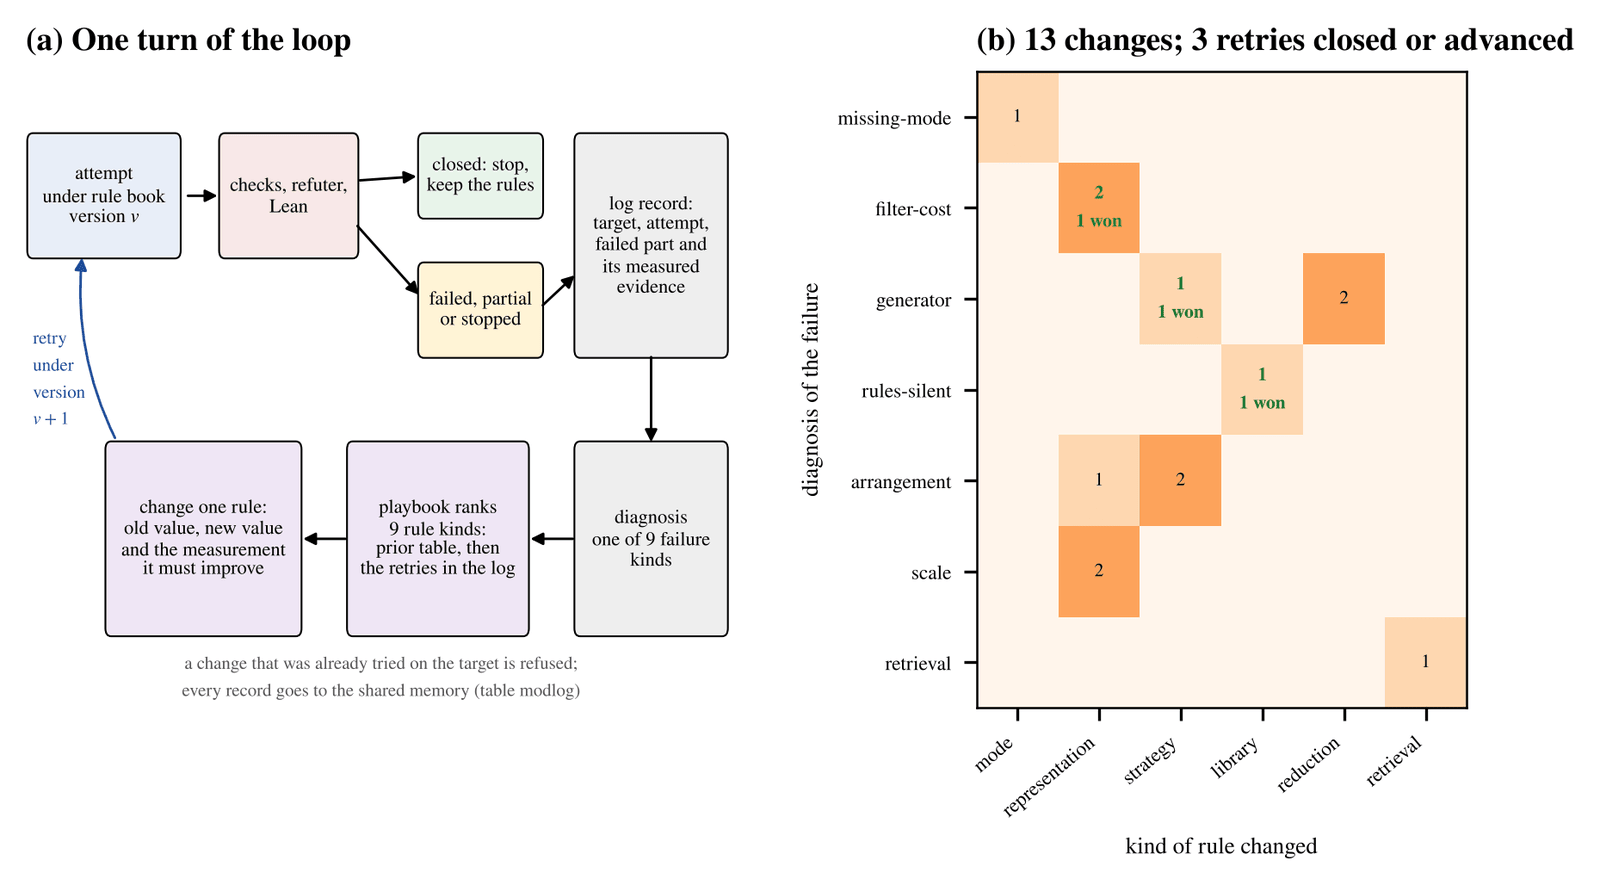
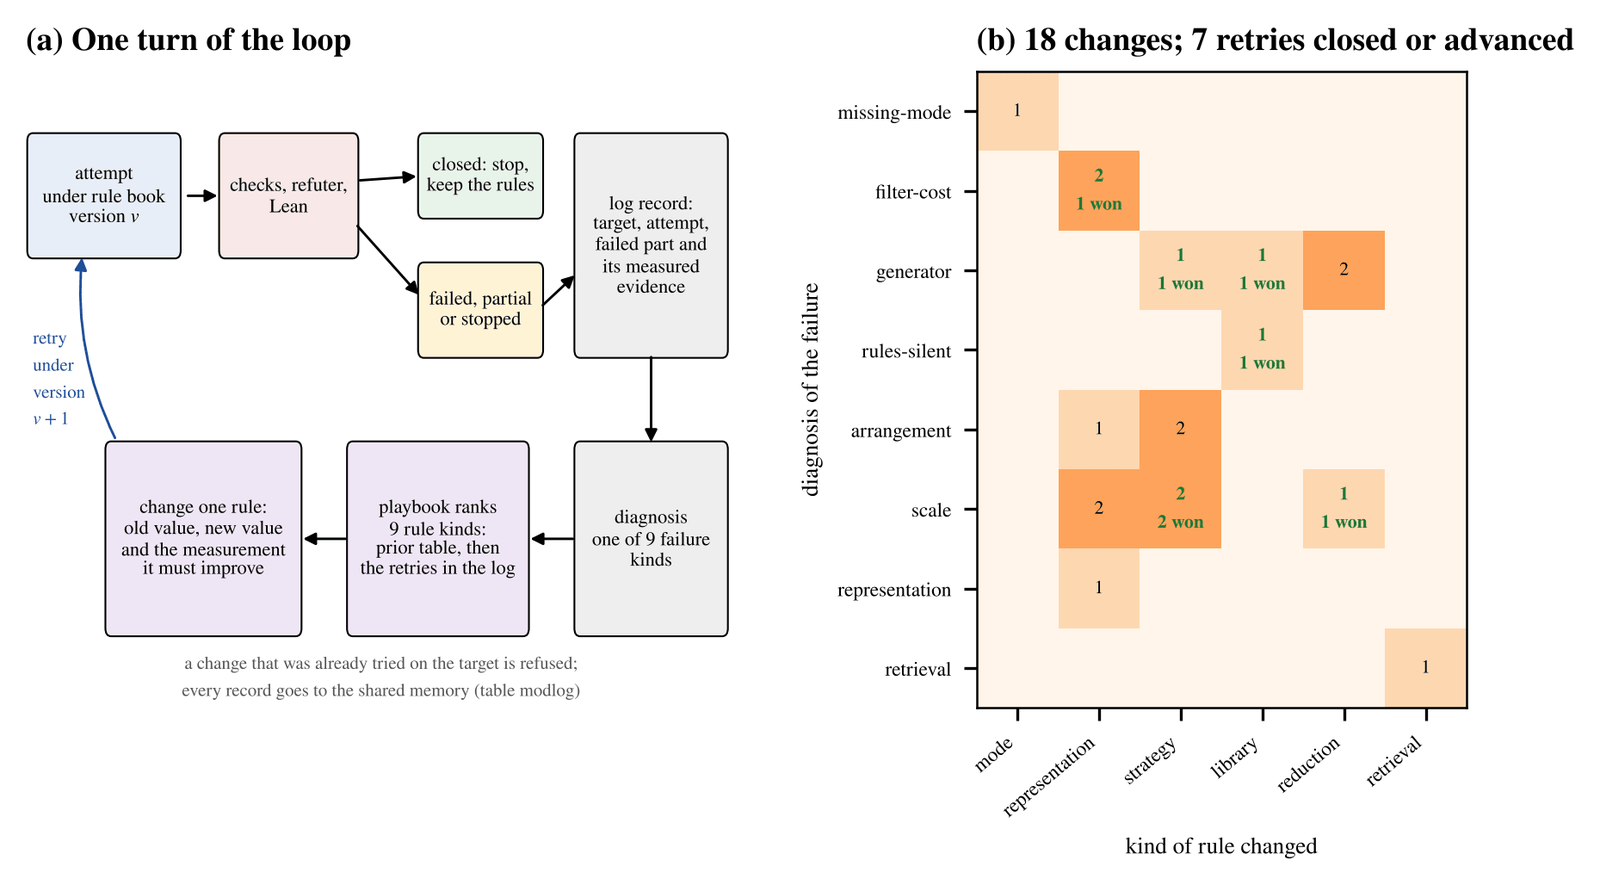
Paper: how the engine reached the seed bound, read from the log; retries counted as closed or advanced; seed figure placed in its section

diff --git a/paper/bllm/paper/sections/sec10i_seed.tex b/paper/bllm/paper/sections/sec10i_seed.tex
@@ -8,6 +8,14 @@ A lattice polytope $P\subset\mathbb{R}^{d}$ is \emph{reflexive} if the origin is
 
 A reflexive polytope $Q\subsetneq P$ is a \emph{cover} of $P$ when no reflexive polytope lies strictly between them, and a \emph{reflexive descent} of $P$ is a chain $P=P_{0}\supsetneq P_{1}\supsetneq\cdots\supsetneq P_{k}$ in which each $P_{i+1}$ is a cover of $P_{i}$ and $P_{k}$ has no cover; $k$ is its number of steps. A reflexive polytope with no cover is \emph{r-minimal}, and every r-minimal polytope contains a minimal polytope in the sense of Kreuzer and Skarke, a \emph{seed} of their list \cite{KS00,BhaSeed}. The \emph{transition depth} $\delta(P)$ is the fewest steps of a reflexive descent of $P$. Every $P$ has a reflexive descent, because a polytope that is not r-minimal has a cover and every step loses a lattice point (Lemma~\ref{lem:seedstep} below). The seed conjecture, in the form stated and proved in \cite{BhaSeed}, asserts that $\delta(P)$ is bounded independently of $P$ in dimension four; the least such bound is the sharp constant $D_{4}=\max_{P}\delta(P)$.\footnote{The conjecture was first stated for chains of subpolytopes whose intermediate hulls are reflexive. The form above, in which no reflexive polytope may be skipped, is the strictest such chain. Deleting a vertex of $P$ and taking the hull of its other lattice points does not suffice from dimension three on: the reflexive $3$-polytope with $15$ lattice points and vertices $(1,0,0)$, $(0,1,0)$, $(-1,-1,0)$, $(0,0,1)$, $(-3,2,-2)$, $(-2,3,-2)$, $(-4,4,-3)$ has no reflexive vertex deletion, yet it has three covers, with $12$, $13$ and $13$ lattice points, and a reflexive descent of five steps \cite{BhaSeed}; construction mode reproduces all three numbers.}
 
+\begin{figure*}[t]
+\centering
+\includegraphics[width=\textwidth,height=0.78\textheight,keepaspectratio]{figures/fig_seed}
+\Description{Left: the sixteen reflexive polygons in rows by number of lattice points, from ten at the top to four at the bottom, with arrows for every cover; the shortest descent from the ten-point triangle is red and the three r-minimal polygons are green. Upper right: the pairs of point counts of the reflexive four-polytopes and their dual, with the longest chain in red. Lower right: the point counts of the largest four-polytope and its dual along a descent of 38 steps, with a shorter descent of 36 steps marked in red.}
+\caption{Descents to seeds. (a) The $16$ reflexive polygons, by number of lattice points, with an arrow for every cover; the three r-minimal polygons are green, the shortest descent from the $10$-point triangle is red, and the grey number is the transition depth. (b) The pairs $(\ell(P),\ell(P^{*}))$ over the $\seedCount$ reflexive $4$-polytopes and a longest chain in the order of Theorem~\ref{thm:seedbound}, of $\seedBound$ steps. (c) The lattice points of $P_{i}$ and of $P_{i}^{*}$ along the listed descent of $\Delta_{680}$; from step $27$ a shortest descent (red) ends at an r-minimal polytope with $11$ points after nine steps.}
+\label{fig:seed}
+\end{figure*}
+
 \begin{lemma}\label{lem:seedstep}
 If $Q\subsetneq P$ are reflexive, then $\ell(Q)<\ell(P)$ and $\ell(Q^{*})>\ell(P^{*})$.
 \end{lemma}
@@ -40,14 +48,11 @@ A lattice polygon with exactly one interior lattice point is reflexive \cite{PRV
 
 In dimension three the largest transition depth over all $\seedCountThree$ reflexive polytopes is $\seedThree$ \cite{BhaSeed}. So the conjecture holds in dimension four with a uniform bound, the sharp constant is $\seedTwo$ in dimension two and $\seedThree$ in dimension three, and in dimension four it lies between $\seedLow$ and $\seedBound$.
 
-\begin{figure*}[t]
-\centering
-\includegraphics[width=\textwidth,height=0.78\textheight,keepaspectratio]{figures/fig_seed}
-\Description{Left: the sixteen reflexive polygons in rows by number of lattice points, from ten at the top to four at the bottom, with arrows for every cover; the shortest descent from the ten-point triangle is red and the three r-minimal polygons are green. Upper right: the pairs of point counts of the reflexive four-polytopes and their dual, with the longest chain in red. Lower right: the point counts of the largest four-polytope and its dual along a descent of 38 steps, with a shorter descent of 36 steps marked in red.}
-\caption{Descents to seeds. (a) The $16$ reflexive polygons, by number of lattice points, with an arrow for every cover; the three r-minimal polygons are green, the shortest descent from the $10$-point triangle is red, and the grey number is the transition depth. (b) The pairs $(\ell(P),\ell(P^{*}))$ over the $\seedCount$ reflexive $4$-polytopes and a longest chain in the order of Theorem~\ref{thm:seedbound}, of $\seedBound$ steps. (c) The lattice points of $P_{i}$ and of $P_{i}^{*}$ along the listed descent of $\Delta_{680}$; from step $27$ a shortest descent (red) ends at an r-minimal polytope with $11$ points after nine steps.}
-\label{fig:seed}
-\end{figure*}
-
 \subsection{How the engine got there}\label{ssec:seedrun}
 
-%RUN
+The run is the second in the log of the loop (Section~\ref{sec:selfmod}): \modSeedAttempts{} attempts on three targets and \modSeedChanges{} changes of rule, all listed in Table~\ref{tab:modlog} and drawn in Fig.~\ref{fig:modladder}. Its first two failures were failures of the step itself. The engine started from the step that works in the plane, deleting a vertex and keeping the hull of the other lattice points, and tested it on $400$ reflexive $3$-polytopes: seven of them have no reflexive vertex deletion, and $237$ have a cover that is not a vertex deletion. The diagnosis was the representation, and the step became a cover, found by cutting $P$ with a half-space $\{x:\langle x,q\rangle\ge-1\}$ at a lattice point $q$ of the dual. Cuts at dual points of gauge two still gave the wrong set of covers for $73$ of the $400$ polytopes, so the generator of cuts was widened to every dual point allowed by the bound of Balletti, Kasprzyk and Nill on the dual volume \cite{BKN22} and by the facet condition, branching where a cut is not reflexive. With that rule the covers agreed with the known order on all $400$ polytopes.\footnote{The program \texttt{reflexive} of the package computes covers in any dimension as the maximal reflexive polytopes among the hulls of the lattice points of $P$ less a vertex by a recursion that needs no bound on the dual; its tests include the $15$-point example of the footnote in Section~\ref{ssec:reflexive}.}
+
+The third failure was one of scale. With $\seedCount$ polytopes the list is too large to descend one polytope at a time, and the change that followed was a change of what was looked for: instead of a descent of each polytope, a bound on every descent, read from the point counts of the polytope and of its dual. The retry closed, first with the bound $\min(\ell(P)-6,\,680-\ell(P^{*}))\le654$ and then, with the chain of pairs of Theorem~\ref{thm:seedbound}, with $\seedBound$. No descent of a four-dimensional polytope was computed for either bound; both come from Lemma~\ref{lem:seedstep} and one pass over the list.
+
+The third target, the sharp constant, failed first on scale as well: $162{,}328{,}050$ polytopes have a counting bound above $40$, and certifying a descent of the largest takes minutes. The strategy changed to the extreme polytopes only, with certified descents bounding $D_{4}$ from above and exact breadth-first depths bounding it from below. Along the listed descent of $\Delta_{680}$ the exact depths are $4$ at the polytope with $15$ points and $9$ at the polytope with $20$ points, which gave $D_{4}\ge9$ and $\delta(\Delta_{680})\le\seedDelta$.
+%HANDOVER

diff --git a/paper/bllm/paper/sections/sec01_intro.tex b/paper/bllm/paper/sections/sec01_intro.tex
@@ -110,7 +110,7 @@ The theorems price the checks; they do not say where good candidates come from. 
 \item \emph{Construction mode rebuilds what crossing cannot.} Random planar frames filled with library gadgets gave no gadget of Steinberg's kind in $2.45$ million frames; the goal-directed builder, given only the rules, rebuilt the $15$-vertex gadget of \cite{CHK17} on its $116$th try after $11$ seconds. With that gadget and a triangle as lemmas it built a $42$-vertex gadget with the contacts of the second gadget of \cite{CHK17} on two seeds, and on a third a $48$-vertex gadget with contact distances $5,4,5$, which \cite{CHK17} does not use, and the assembly of \cite{CHK17} applied to the rebuilt $15$-vertex gadget gives a planar graph of $166$ vertices with no cycle of length $4$ or $5$ that three satisfiability solvers find not $3$-colourable. On Erd\H{o}s's question, which also forbids cycles of length $6$, it finds nothing (Section~\ref{ssec:steinberg}).
 \item \emph{Depth pays once.} At equal budgets of exact checks, a second layer that first builds an easier gadget and keeps it as a lemma reaches the profile of the second gadget of \cite{CHK17} on seven of ten runs, where the builder alone never reaches it; a third layer reaches it on six. When all layers share one library and one set of weights, the step from the lemma to the goal takes a median of $308$ checks against $2{,}342$ when each copy keeps its own. The crossing loop, given $13$ to $20$ times the budget, finds no gadget, and no tower finds one on Erd\H{o}s's question (Section~\ref{ssec:towerbench}).
 \item \emph{One problem only.} Pointed at the Hodge conjecture alone, with every result of \cite{BB26c} and of the companion paper \cite{BMB26b} in its library, the engine excludes by counting two of the configurations left open on $E_{0}^{6}$ and reduces two others to the ranks of explicit Massey products, and the gap of every target point is the same after the last round as after the first (Section~\ref{sec:hodgeround}).
-\item \emph{It learns from its failures.} Every failed attempt now writes a record that names the part that failed, changes one rule of the engine and is closed by the outcome of the next attempt under the changed rule. In the log so far, \modChanges{} changes of rule followed \modAttempts{} attempts on \modTargets{} targets, and the retries of \modAdvanced{} of the \modBuilt{} changes that were built closed their target. The loop never makes the same change twice on a target, so it stops after at most one attempt more than there are changes it can propose (Proposition~\ref{prop:loopstops}), and it ranks the kinds of change by the posterior mean of their success (Proposition~\ref{prop:playbook}); Section~\ref{sec:selfmod}.
+\item \emph{It learns from its failures.} Every failed attempt now writes a record that names the part that failed, changes one rule of the engine and is closed by the outcome of the next attempt under the changed rule. In the log so far, \modChanges{} changes of rule followed \modAttempts{} attempts on \modTargets{} targets, and of the \modBuilt{} changes that were built, \modRetryClosed{} led to a retry that closed its target and \modRetryPartial{} more to one that moved it forward. The loop never makes the same change twice on a target, so it stops after at most one attempt more than there are changes it can propose (Proposition~\ref{prop:loopstops}), and it ranks the kinds of change by the posterior mean of their success (Proposition~\ref{prop:playbook}); Section~\ref{sec:selfmod}.
 \item \emph{A benchmark crossed.} On a conjecture about the reflexive polytopes of dimension four, whose Calabi--Yau hypersurfaces form the largest known list of Calabi--Yau threefolds, the engine reached a proof: shrunk one reflexive polytope at a time, such a polytope reaches a seed in at most $\seedBound$ steps, for all $\seedCount$ polytopes of the Kreuzer--Skarke list, because each step lowers the number of lattice points of the polytope and raises that of its dual (Theorem~\ref{thm:seedbound}). In dimensions two and three the sharp constants are $\seedTwo$ and $\seedThree$; in dimension four the sharp constant lies between $\seedLow$ and $\seedBound$ and is open. This passes the sixth benchmark, one open conjecture of mathematical physics proved without conditions (Section~\ref{sec:seed}).
 \end{enumerate}
 On Erd\H{o}s problem 1183 a reduction to weighted posets (Lemma~\ref{lem:levelposet}) gives the upper bounds that, with the known lower bounds, determine $f(n)$ for $n\le20$ (Theorem~\ref{thm:fvalues}). None of the five problems is solved, and Section~\ref{ssec:whyhard} states for each the step at which every construction we hold stops; the sixth benchmark is passed, by the seed conjecture.

diff --git a/paper/bllm/paper/sections/gen_modlog.tex b/paper/bllm/paper/sections/gen_modlog.tex
@@ -23,6 +23,12 @@
 \rr Bordeaux conjecture & \rr 2 & \rr scale & \rr representation: build, then test planarity $\to$ face-aware moves on one face of the current drawing & \rr moves rejected for planarity & \rr failed \\
 \rr Bordeaux conjecture & \rr 3 & \rr arrangement & \rr strategy: face-aware moves $\to$ search over planar arrangements of the forcing argument & \rr arguments that survive the drawing & \rr not yet built \\
 \rr dijoin conjecture & \rr 1 & \rr retrieval & \rr retrieval: the conjecture's name $\to$ also papers after its date that say they imply it & \rr settled targets caught before an attack & \rr stopped \\
+\multicolumn{6}{@{}l}{\emph{The seed conjecture for reflexive polytopes, 19 October 2026}} \\
+\rr Seed conjecture, uniform bound (d = 4) & \rr 1 & \rr representation & \rr representation: delete a vertex and keep the hull of the other lattice points $\to$ a cover, found as the cut of P by a half-space <x,q> $\ge$ -1 at a dual lattice point q & \rr covers found (vertex deletion misses one on 237 of 400 polytopes) & \rr failed \\
+\rr Seed conjecture, uniform bound (d = 4) & \rr 2 & \rr generator & \rr library: dual lattice points of gauge 2 $\to$ every dual point allowed by the dual volume bound of Balletti, Kasprzyk and Nill and the facet condition, branching where a cut is not reflexive & \rr polytopes with the right set of covers (327 of 400) & \rr partial \\
+\rr Seed conjecture, uniform bound (d = 4) & \rr 3 & \rr scale & \rr reduction: compute a descent of each polytope $\to$ bound every descent by the lattice points of the polytope and of its dual, read once from the list & \rr polytopes with a proved bound on every descent (none) & \rr closed \\
+\rr Sharp seed constant (d = 4) & \rr 1 & \rr scale & \rr strategy: certify a descent of every polytope $\to$ certify descents of the extreme polytopes only, and bound the constant from below by exact breadth-first depths & \rr certified upper and lower bounds on the sharp constant & \rr partial \\
+\rr Sharp seed constant (d = 4) & \rr 2 & \rr scale & \rr strategy: one certified descent of the 680-point simplex $\to$ exact depths at the polytopes along that descent & \rr the bound on the depth of the 680-point simplex (38) & \rr partial \\
 \bottomrule
 \end{tabular}
 \end{table*}

diff --git a/paper/bllm/paper/sections/gen_numbers.tex b/paper/bllm/paper/sections/gen_numbers.tex
@@ -1,14 +1,14 @@
 % generated by figures/src/make_tables_round7.py; do not edit
-\newcommand{\brainModules}{59}
+\newcommand{\brainModules}{60}
 \newcommand{\brainImports}{105}
 \newcommand{\brainWithin}{49}
 \newcommand{\brainBetween}{56}
-\newcommand{\brainLines}{10{,}140}
-\newcommand{\brainTests}{117}
+\newcommand{\brainLines}{10{,}436}
+\newcommand{\brainTests}{131}
 \newcommand{\brainLeanPaper}{65}
 \newcommand{\brainLeanEngine}{44}
 \newcommand{\brainCommands}{19}
-\newcommand{\brainFigures}{37}
+\newcommand{\brainFigures}{38}
 \newcommand{\brainLibrary}{54}
 \newcommand{\brainRegistry}{35}
 \newcommand{\brainFirstLines}{1{,}041}
@@ -16,7 +16,7 @@
 \newcommand{\brainFirstTests}{26}
 \newcommand{\brainHub}{construct/graphcheck.py}
 \newcommand{\brainHubIn}{10}
-\newcommand{\brainGrowth}{9.7}
+\newcommand{\brainGrowth}{10.0}
 \newcommand{\brainModCore}{16}
 \newcommand{\brainLocCore}{916}
 \newcommand{\brainModLaws}{6}
@@ -30,18 +30,20 @@
 \newcommand{\brainModKnowledge}{4}
 \newcommand{\brainLocKnowledge}{811}
 \newcommand{\brainModBenchmarks}{2}
-\newcommand{\brainLocBenchmarks}{889}
-\newcommand{\brainModConstruction}{12}
-\newcommand{\brainLocConstruction}{1{,}983}
+\newcommand{\brainLocBenchmarks}{906}
+\newcommand{\brainModConstruction}{13}
+\newcommand{\brainLocConstruction}{2{,}262}
 \newcommand{\brainModInterface}{3}
 \newcommand{\brainLocInterface}{537}
-\newcommand{\modRuns}{1}
-\newcommand{\modTargets}{6}
-\newcommand{\modAttempts}{17}
-\newcommand{\modChanges}{13}
-\newcommand{\modBuilt}{11}
-\newcommand{\modAdvanced}{3}
-\newcommand{\modClosed}{3}
+\newcommand{\modRuns}{2}
+\newcommand{\modTargets}{9}
+\newcommand{\modAttempts}{25}
+\newcommand{\modChanges}{18}
+\newcommand{\modBuilt}{16}
+\newcommand{\modAdvanced}{7}
+\newcommand{\modClosed}{5}
+\newcommand{\modRetryClosed}{4}
+\newcommand{\modRetryPartial}{3}
 \newcommand{\seedBound}{348}
 \newcommand{\seedChain}{349}
 \newcommand{\seedLow}{9}
@@ -53,5 +55,8 @@
 \newcommand{\modConstructionAttempts}{17}
 \newcommand{\modConstructionChanges}{13}
 \newcommand{\modConstructionAdvanced}{3}
+\newcommand{\modSeedAttempts}{8}
+\newcommand{\modSeedChanges}{5}
+\newcommand{\modSeedAdvanced}{4}
 \newcommand{\modTopKind}{representation}
-\newcommand{\modTopKindN}{5}
+\newcommand{\modTopKindN}{6}

diff --git a/paper/bllm/paper/sections/sec10h_selfmod.tex b/paper/bllm/paper/sections/sec10h_selfmod.tex
@@ -49,7 +49,7 @@ So a fresh engine follows the table, and an engine with a long log follows its o
 
 \subsection{What the log shows}\label{ssec:modlogread}
 
-The log bundled with the package holds \modAttempts{} attempts on \modTargets{} targets and \modChanges{} changes of rule (Table~\ref{tab:modlog}, Fig.~\ref{fig:modladder}).\footnote{The records of the construction run were taken from the logs of the runs of 19 October, which give for each attempt its measured evidence and the change that followed, and were written in the format of the loop. The loop of Section~\ref{ssec:loop} produces the same records itself for every new run.} \modBuilt{} of the changes were built and tried; the retries of \modAdvanced{} of them closed their target. The most common kind of change was a change of \modTopKind{} (\modTopKindN{} times): most failures came from searching for an object in a form in which the property it needed was invisible, and the cure was to write the candidates differently, so that a filter held by construction instead of being tested afterwards.
+The log bundled with the package holds \modAttempts{} attempts on \modTargets{} targets and \modChanges{} changes of rule (Table~\ref{tab:modlog}, Fig.~\ref{fig:modladder}).\footnote{The records of the construction run and of the seed run (Section~\ref{ssec:seedrun}) were taken from the logs of the runs of 19 October, which give for each attempt its measured evidence and the change that followed, and were written in the format of the loop. The loop of Section~\ref{ssec:loop} produces the same records itself for every new run.} \modBuilt{} of the changes were built and tried; the retries of \modRetryClosed{} of them closed their target, and \modRetryPartial{} more moved it forward without closing it. The most common kind of change was a change of \modTopKind{} (\modTopKindN{} times): most failures came from searching for an object in a form in which the property it needed was invisible, and the cure was to write the candidates differently, so that a filter held by construction instead of being tested afterwards.
 
 \input{sections/gen_modlog}
 

diff --git a/paper/bllm/paper/figures/src/make_tables_round7.py b/paper/bllm/paper/figures/src/make_tables_round7.py
@@ -37,7 +37,7 @@ ADDED = {
     "3.0.3": "paper: compact figures",
     "3.0.4": "paper: layout of the appendices",
     "3.0.5": "paper: wording of the abstract",
-    "3.1.0": "the learn-from-failure loop and its log; reflexive lattice polytopes",
+    "3.1.0": "the learn-from-failure loop and its log; covers and descents of reflexive polytopes; the seed benchmark",
 }
 NAMES = {
     "core": "Core", "laws": "Laws", "proposers": "Proposers", "crossing": "Crossing", "memory": "Memory",
@@ -92,6 +92,8 @@ def numbers(anat, rows, runs):
     out["modBuilt"] = sum(1 for r in recs if r.get("change") and r.get("retry"))
     out["modAdvanced"] = sum(1 for r in recs if r.get("change") and r.get("retry") in ("closed", "partial"))
     out["modClosed"] = sum(1 for r in recs if r["outcome"] == "closed")
+    out["modRetryClosed"] = sum(1 for r in recs if r.get("change") and r.get("retry") == "closed")
+    out["modRetryPartial"] = sum(1 for r in recs if r.get("change") and r.get("retry") == "partial")
     seed = json.load(open(os.path.join(REPO, "src", "ebllm", "construct", "data", "seed_summary.json"),
                           encoding="utf-8"))["numbers"]
     out.update({"seedBound": seed["bound"], "seedChain": seed["bound"] + 1, "seedLow": seed["low"],

diff --git a/paper/bllm/paper/sections/gen_releases.tex b/paper/bllm/paper/sections/gen_releases.tex
@@ -19,7 +19,7 @@
 \rr 3.0.3 & \rr 19 Oct, 06:53 & \rr 58 & \rr 9{,}837 & \rr 102 & \rr 65/38 & \rr paper: compact figures & \rr \href{https://doi.org/10.5281/zenodo.23467113}{23467113} \\
 \rr 3.0.4 & \rr 19 Oct, 07:17 & \rr 58 & \rr 9{,}837 & \rr 102 & \rr 65/38 & \rr paper: layout of the appendices & \rr \href{https://doi.org/10.5281/zenodo.23467544}{23467544} \\
 \rr 3.0.5 & \rr 19 Oct, 08:46 & \rr 58 & \rr 9{,}837 & \rr 102 & \rr 65/38 & \rr paper: wording of the abstract & \rr \href{https://doi.org/10.5281/zenodo.23469389}{23469389} \\
-\rr 3.1.0 & \rr 19 Oct & \rr 59 & \rr 10{,}140 & \rr 117 & \rr 65/44 & \rr the learn-from-failure loop and its log; reflexive lattice polytopes & \rr \anaxiaDOIshort \\
+\rr 3.1.0 & \rr 19 Oct & \rr 60 & \rr 10{,}436 & \rr 131 & \rr 65/44 & \rr the learn-from-failure loop and its log; covers and descents of reflexive polytopes; the seed benchmark & \rr \anaxiaDOIshort \\
 \bottomrule
 \end{tabular}
 \end{table*}
